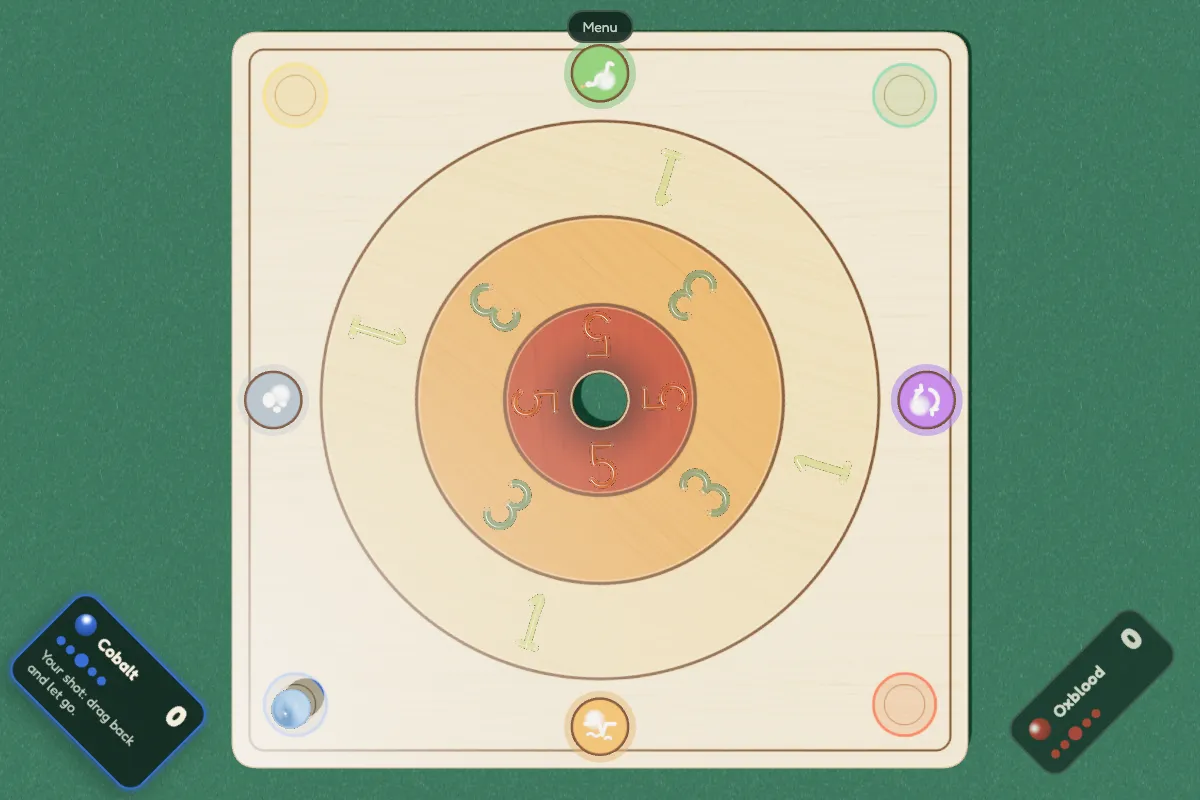
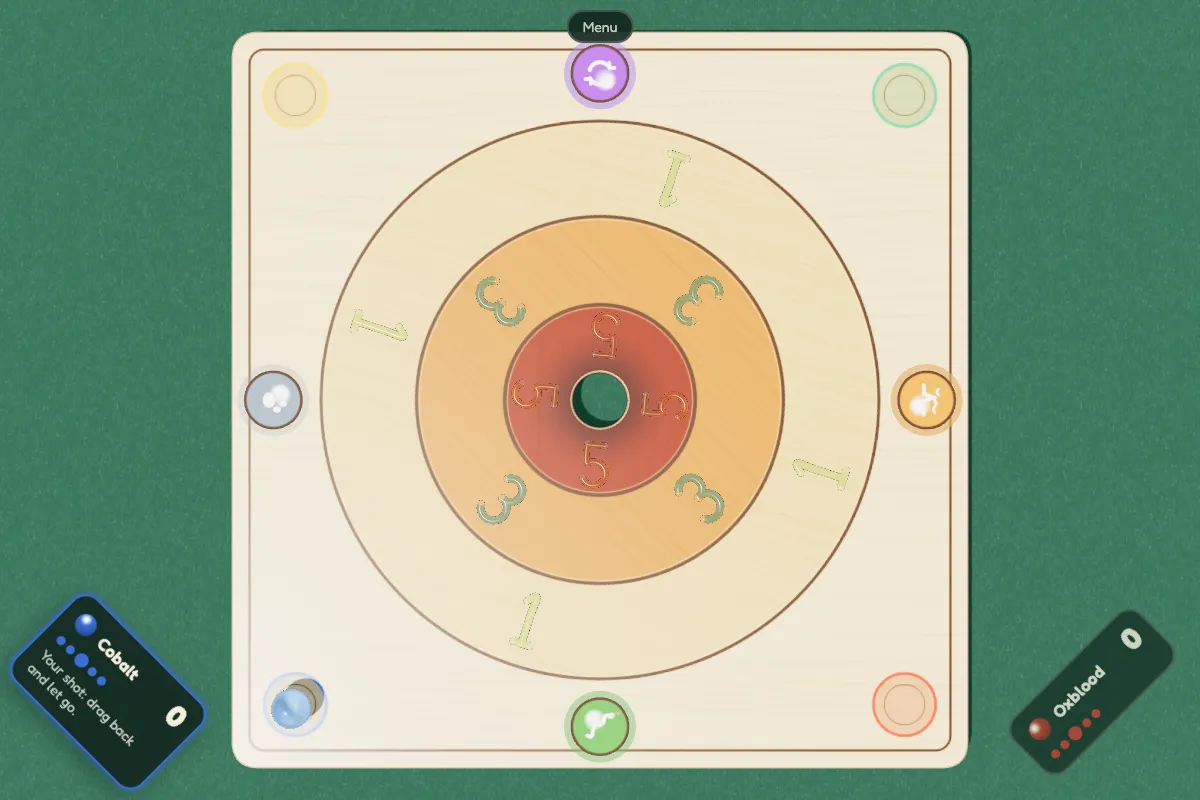
marble-flick randmosed starting player

diff --git a/static-assets/toys/marble-flick/index.html b/static-assets/toys/marble-flick/index.html
@@ -1244,7 +1244,7 @@ function newGame() {
   shots = [0, 1, 2, 3].map(i => seatModes[i] === 'off' ? 0 : perPlayer);
   W.spotCoolTurns = active.length;
   showSpotTypes(W.spotTypes, false);
-  turn = 0;
+  turn = Math.floor(Math.random() * active.length);   // a random seat opens, then play goes round in order
   document.getElementById('setup').hidden = true;
   document.getElementById('over').hidden = true;
   document.getElementById('menuBtn').hidden = false;
